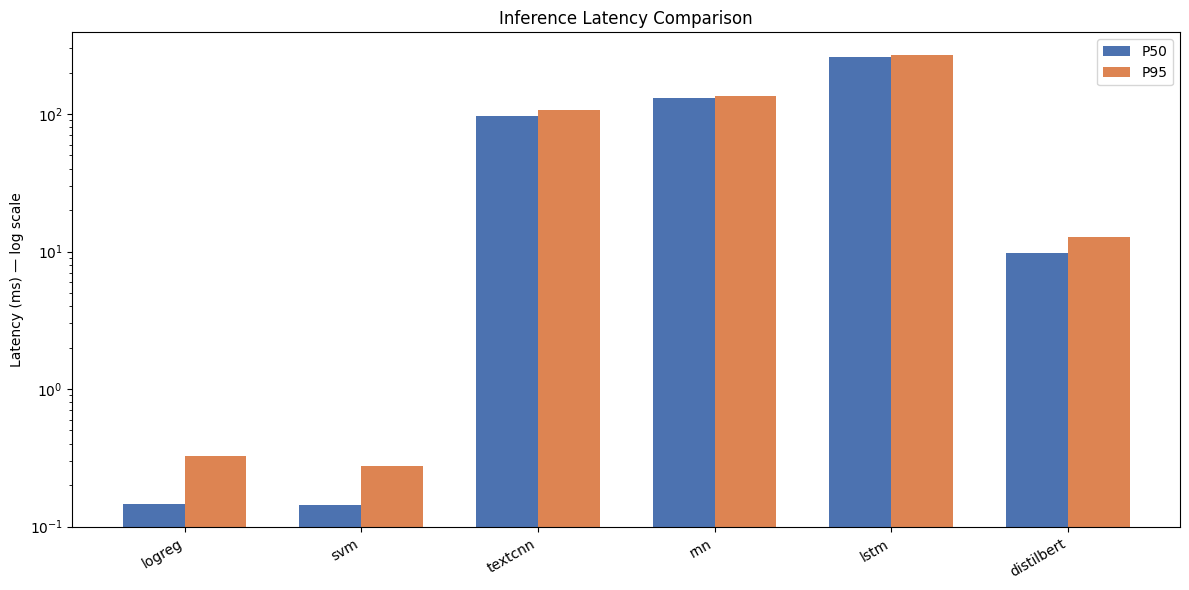
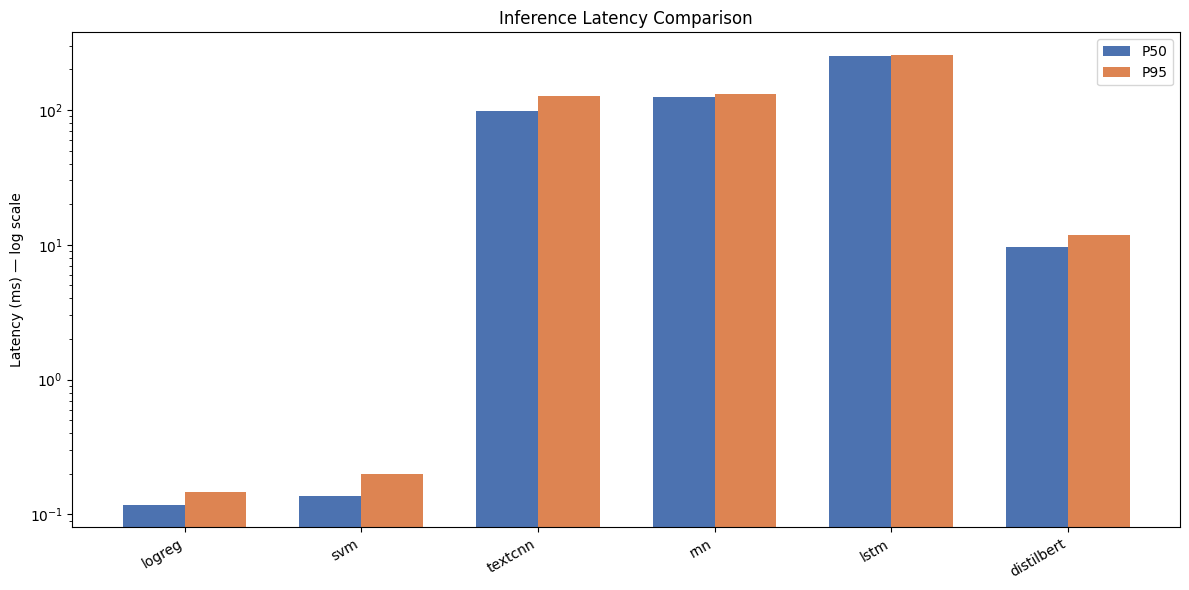
top confusion matrix

diff --git a/src/evaluation/evaluate_all.py b/src/evaluation/evaluate_all.py
@@ -240,6 +240,7 @@ def plot_comparison(results: dict, save_path: str) -> None:
         bars = ax.bar(df["model"], df[metric].astype(float), color=colors)
         ax.set_title(title, fontsize=14)
         ax.set_ylim(0, 1.1)
+        ax.set_xticks(range(len(df["model"])))
         ax.set_xticklabels(df["model"], rotation=30, ha="right")
         for bar, val in zip(bars, df[metric].astype(float)):
             ax.text(
@@ -281,20 +282,63 @@ def plot_latency(results: dict, save_path: str) -> None:
     print(f"  saved: {save_path}")
 
 
-def plot_confusion_matrix(
+def get_top_confused_pairs(
     y_true: np.ndarray,
     y_pred: np.ndarray,
     label_names: list[str],
+    top_n: int = 20,
+) -> pd.DataFrame:
+    cm = confusion_matrix(y_true, y_pred)
+    np.fill_diagonal(cm, 0)
+
+    pairs = []
+    for i in range(cm.shape[0]):
+        for j in range(cm.shape[1]):
+            if cm[i, j] > 0:
+                pairs.append({
+                    "true_label": label_names[i],
+                    "predicted_label": label_names[j],
+                    "count": int(cm[i, j]),
+                })
+
+    df = pd.DataFrame(pairs).sort_values("count", ascending=False).head(top_n)
+    return df.reset_index(drop=True)
+
+
+def plot_top_confused_pairs(df: pd.DataFrame, model_name: str, save_path: str) -> None:
+    fig, ax = plt.subplots(figsize=(10, max(6, len(df) * 0.35)))
+    labels = [f"{row.true_label} -> {row.predicted_label}" for row in df.itertuples()]
+    ax.barh(labels, df["count"], color="#C44E52")
+    ax.invert_yaxis()
+    ax.set_xlabel("Misclassification Count")
+    ax.set_title(f"Top Confused Pairs — {model_name}")
+    plt.tight_layout()
+    plt.savefig(save_path, dpi=100, bbox_inches="tight")
+    plt.close()
+    print(f"  saved: {save_path}")
+
+
+def plot_oos_binary_confusion(
+    y_true: np.ndarray,
+    y_pred: np.ndarray,
+    label_map: dict,
     model_name: str,
     save_path: str,
 ) -> None:
-    cm = confusion_matrix(y_true, y_pred)
-    fig, ax = plt.subplots(figsize=(22, 22))
-    disp = ConfusionMatrixDisplay(confusion_matrix=cm, display_labels=label_names)
-    disp.plot(ax=ax, xticks_rotation=90, colorbar=False)
-    ax.set_title(f"Confusion Matrix — {model_name}")
+    oos_id = label_map.get("oos")
+    y_true_binary = (y_true == oos_id).astype(int)
+    y_pred_binary = (y_pred == oos_id).astype(int)
+
+    cm = confusion_matrix(y_true_binary, y_pred_binary)
+    fig, ax = plt.subplots(figsize=(5, 5))
+    disp = ConfusionMatrixDisplay(
+        confusion_matrix=cm,
+        display_labels=["in-scope", "oos"],
+    )
+    disp.plot(ax=ax, colorbar=False, cmap="Blues")
+    ax.set_title(f"OOS Detection — {model_name}")
     plt.tight_layout()
-    plt.savefig(save_path, dpi=80)
+    plt.savefig(save_path, dpi=100, bbox_inches="tight")
     plt.close()
     print(f"  saved: {save_path}")
 
@@ -322,10 +366,19 @@ def main():
     plot_latency(results, str(REPORT_DIR / "latency_comparison.png"))
 
     for model_name, y_pred in predictions.items():
-        plot_confusion_matrix(
-            y_test, y_pred, label_names,
-            model_name,
-            str(REPORT_DIR / f"{model_name}_confusion_matrix.png"),
+        confused_df = get_top_confused_pairs(y_test, y_pred, label_names, top_n=20)
+        confused_csv_path = REPORT_DIR / f"{model_name}_top_confused_pairs.csv"
+        confused_df.to_csv(confused_csv_path, index=False)
+        print(f"  saved: {confused_csv_path}")
+
+        plot_top_confused_pairs(
+            confused_df, model_name,
+            str(REPORT_DIR / f"{model_name}_top_confused_pairs.png"),
+        )
+
+        plot_oos_binary_confusion(
+            y_test, y_pred, label_map, model_name,
+            str(REPORT_DIR / f"{model_name}_oos_binary.png"),
         )
 
     print("\nlogging to MLflow...")
@@ -352,7 +405,6 @@ def main():
             f"{metrics['latency_p50_ms']:<12} "
             f"{metrics['latency_p95_ms']}"
         )
-
 
 if __name__ == "__main__":
     main()